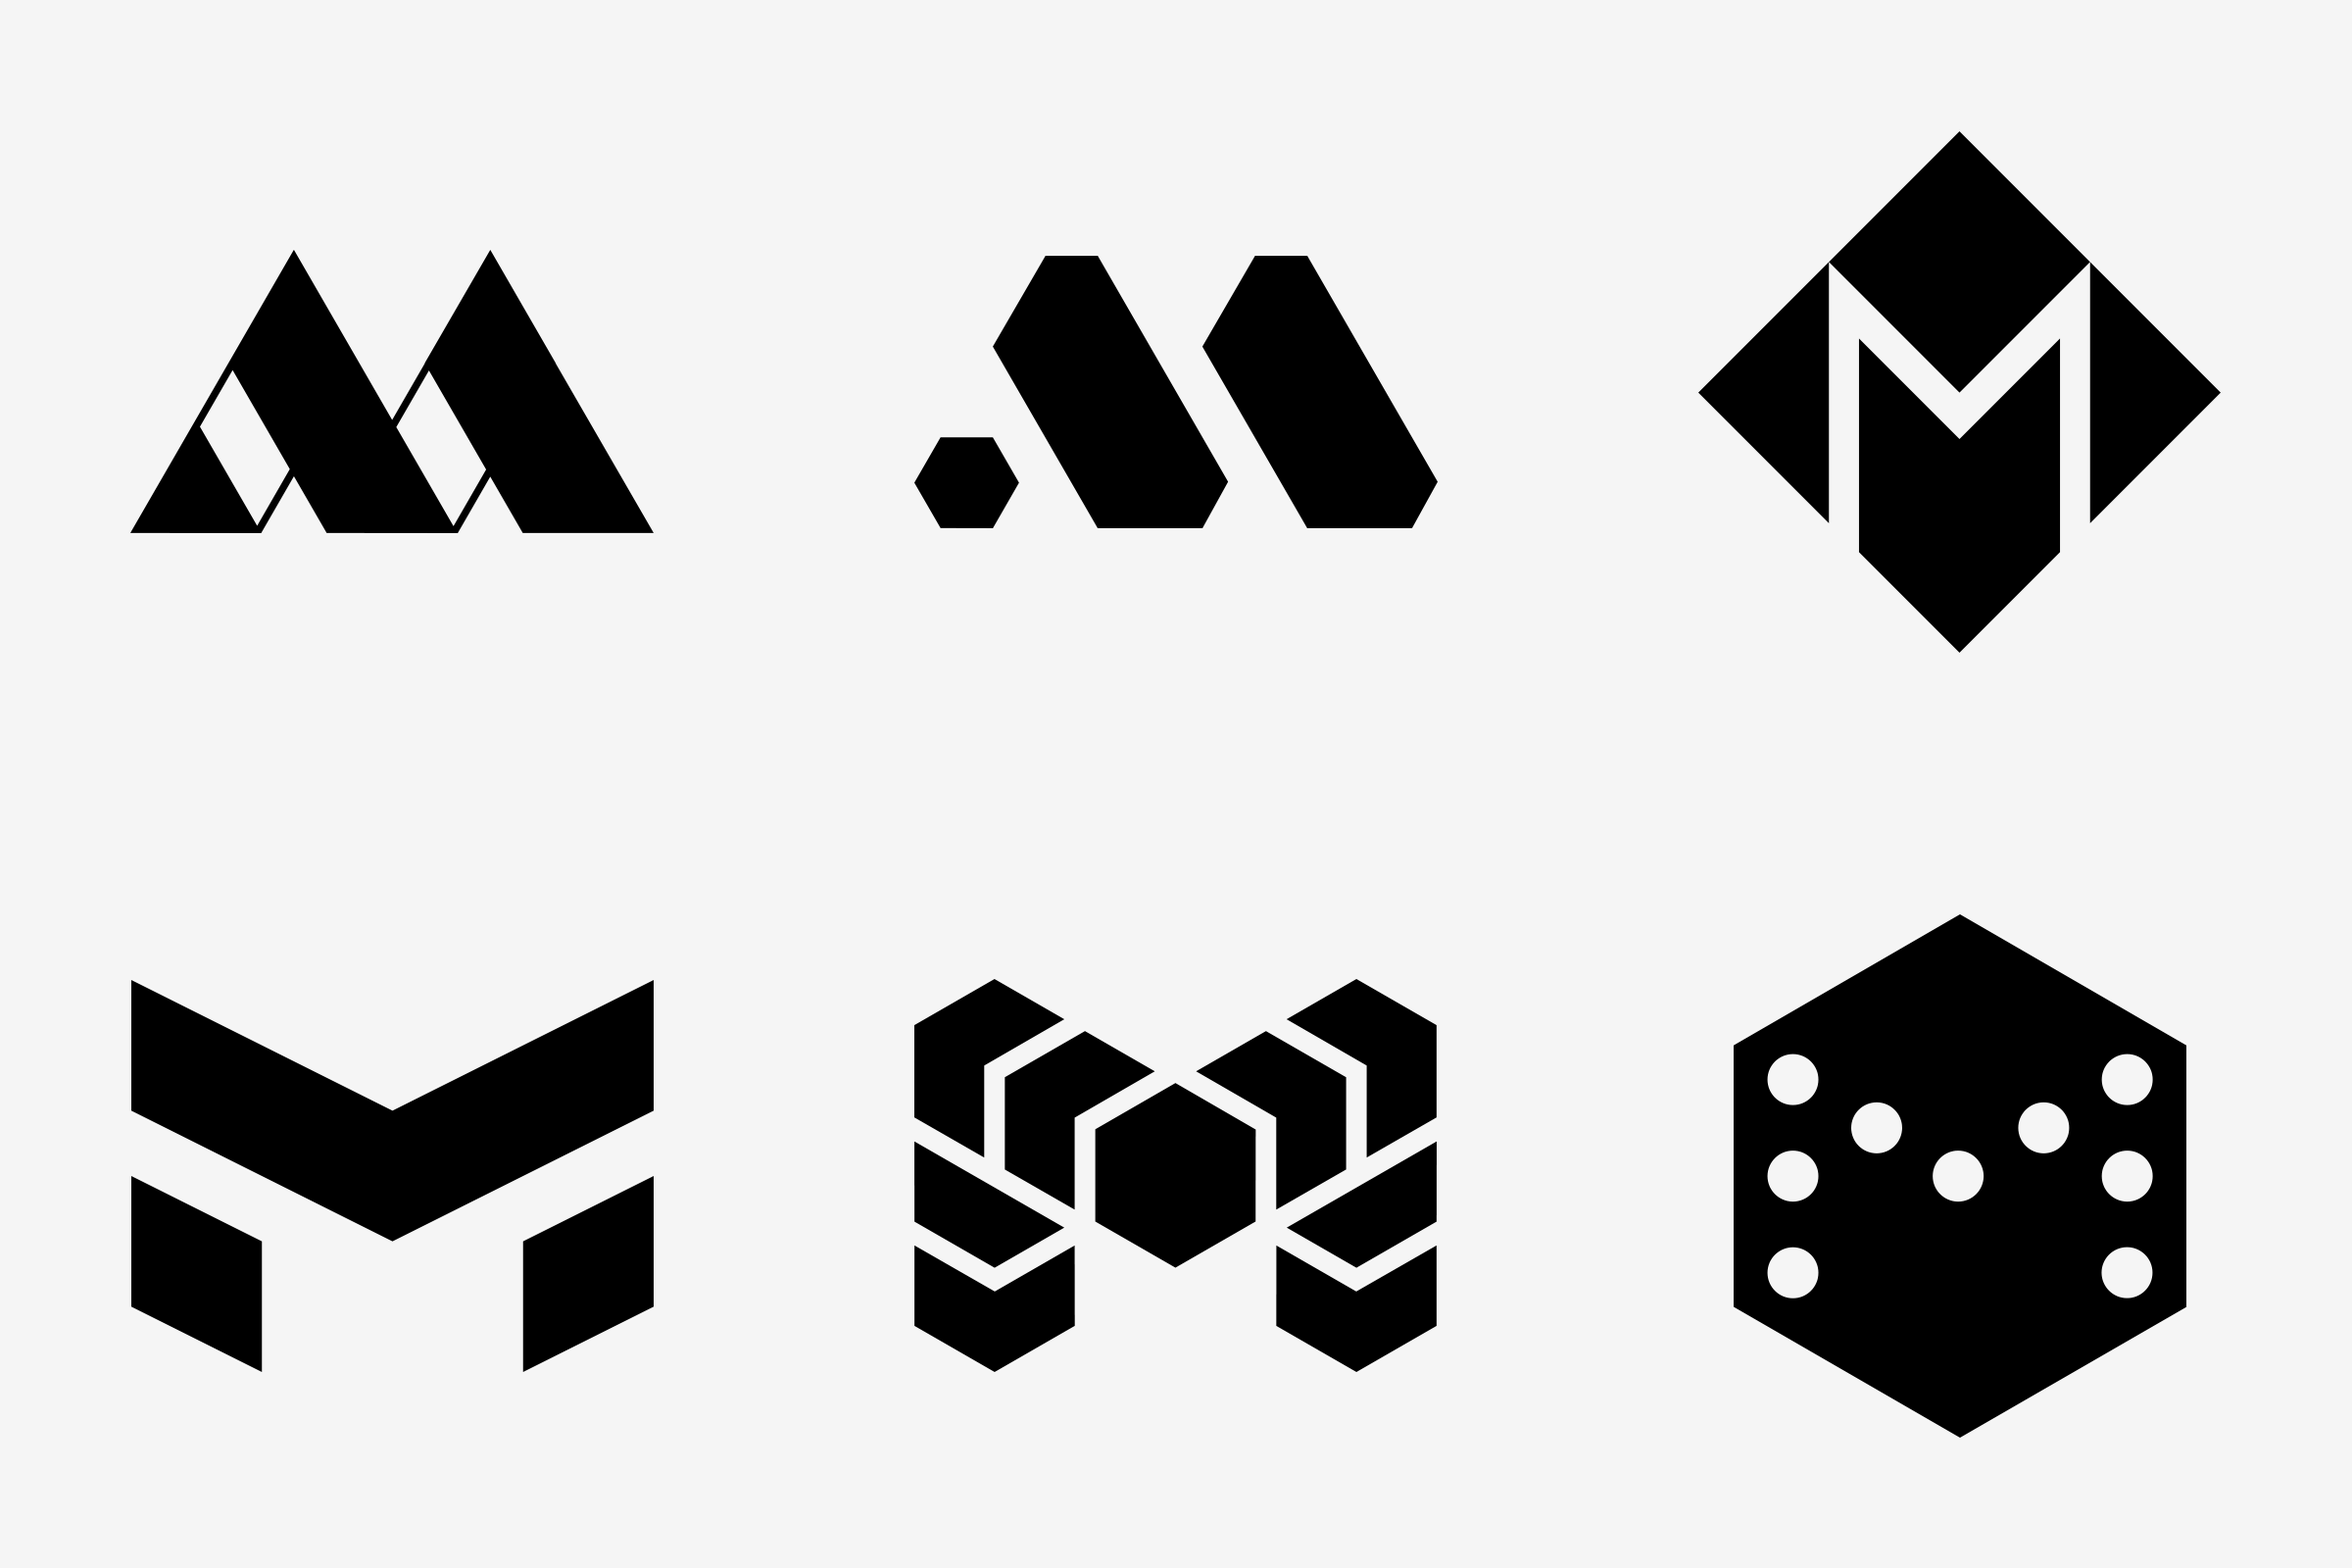
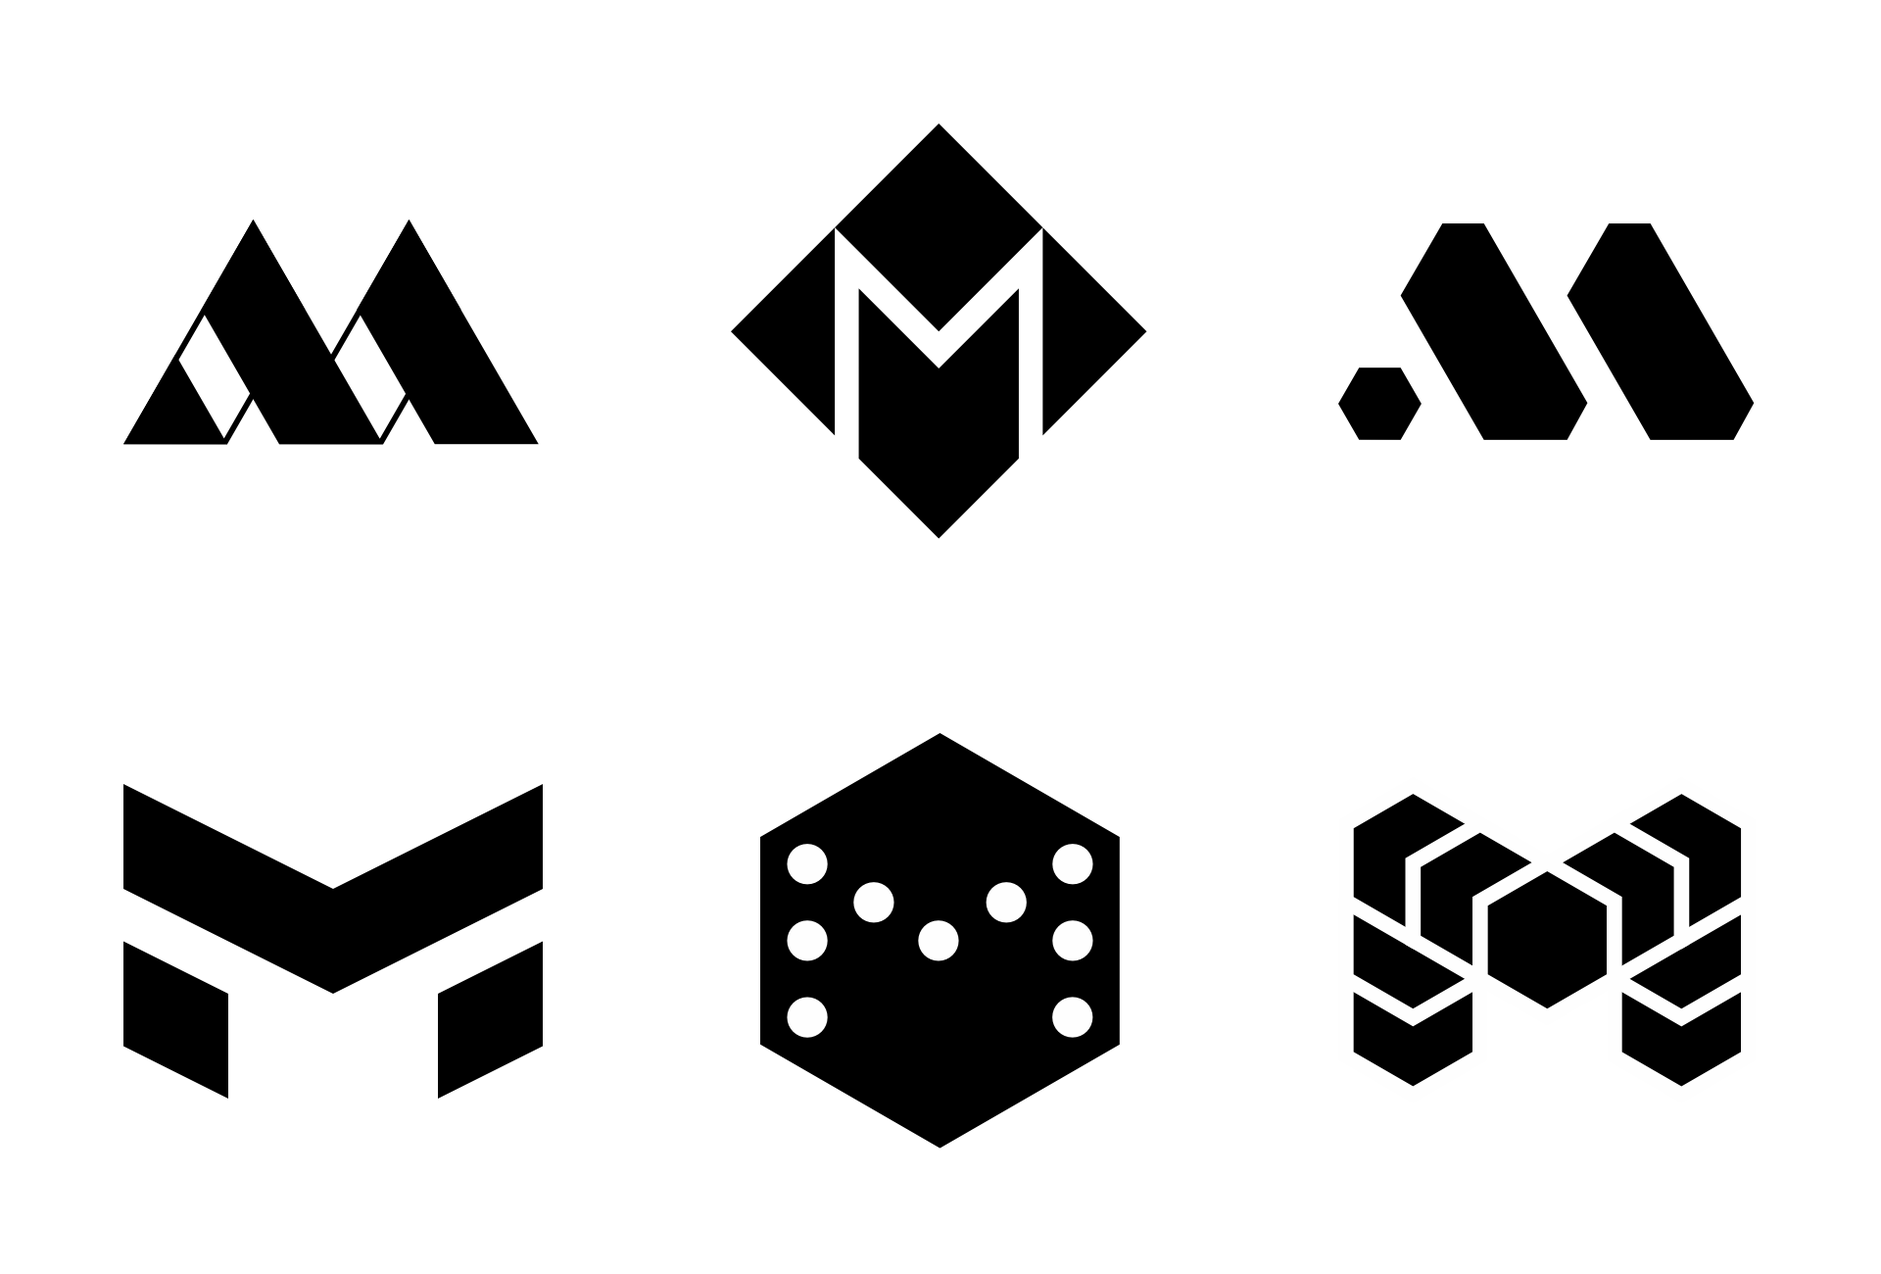
responsive lightbox python plugin
-added filter to adjust urls for responsive lightbox (serve 1x or 2x
based on retina, but always link to 2x for lightbox)
-changed mushi semis images

diff --git a/.build/posts/mushi-labs.html b/.build/posts/mushi-labs.html
@@ -116,6 +116,8 @@ body{font-size:110%}.max-sm{max-width:960px}.svg-icon{fill:currentColor}.dark-gr
 
 <p>I threw out my normal design process, worked all night on a single prototype of a new website in HTML/CSS and then sent him a screenshot of the responsive site I had fully built including animations:</p>
 
+<!-- if responsive, set 2x class on img and link to the 2x image using the responsive filter-->
+
 <figure class="max-sm mx0 py2">
     <a href="/static/images/mushi-labs/web.png" data-lity>
        <img src="/static/images/mushi-labs/web.png"/>
@@ -132,6 +134,8 @@ body{font-size:110%}.max-sm{max-width:960px}.svg-icon{fill:currentColor}.dark-gr
 
 <p>Even though I had a feeling that it wouldn’t work, I tried it anyway. I sketched and sketched for a few days, but I couldn’t make a koi fish that worked both as a large logo and as a small favicon for a website. I talked to Bernard again and discussed the results of my exploration. We decided that it would be good to try something more geometric, what I would have originally tried if I didn’t try the koi fish logo.</p>
 
+<!-- if responsive, set 2x class on img and link to the 2x image using the responsive filter-->
+
 <figure class="max-sm mx0 py2">
     <a href="/static/images/mushi-labs/koi_sketches.png" data-lity>
        <img src="/static/images/mushi-labs/koi_sketches.png"/>
@@ -144,6 +148,8 @@ body{font-size:110%}.max-sm{max-width:960px}.svg-icon{fill:currentColor}.dark-gr
 
 <p>I then quickly sketched different geometric designs with pencil and paper.</p>
 
+<!-- if responsive, set 2x class on img and link to the 2x image using the responsive filter-->
+
 <figure class="max-sm mx0 py2">
     <a href="/static/images/mushi-labs/mushi_sketches.png" data-lity>
        <img src="/static/images/mushi-labs/mushi_sketches.png"/>
@@ -152,9 +158,11 @@ body{font-size:110%}.max-sm{max-width:960px}.svg-icon{fill:currentColor}.dark-gr
 
 <p>I then brought all the designs I liked into Illustrator to start tweaking them and visualizing them on business cards, as favicons, etc. Here are some eventually rejected logos that made it to this stage.</p>
 
-<figure class="max-sm mx0 py2">
-    <a href="/static/images/mushi-labs/semis.png" data-lity>
-       <img src="/static/images/mushi-labs/semis.png"/>
+<!-- if responsive, set 2x class on img and link to the 2x image using the responsive filter-->
+
+<figure class="max-sm mx0 2x">
+    <a href="/static/images/mushi-labs/semis@2x.png" data-lity>
+       <img class="2x" src="/static/images/mushi-labs/semis.png"/>
     </a> 
 </figure>
 

diff --git a/pages/posts/mushi-labs.html b/pages/posts/mushi-labs.html
@@ -52,7 +52,7 @@ I then quickly sketched different geometric designs with pencil and paper.
 
 I then brought all the designs I liked into Illustrator to start tweaking them and visualizing them on business cards, as favicons, etc. Here are some eventually rejected logos that made it to this stage.
 
-{% include "lightbox.html" with link="/static/images/mushi-labs/semis.png" %}
+{% include "lightbox.html" with link="/static/images/mushi-labs/semis.png" responsive=True%}
 
 I narrowed the list to the 3 logos I would be happy to deliver to Mushi Labs. I paired each one with an appropriate typeface and created a mockup image in Photoshop to show each logo on a building sign, on a business card and on the web. I sent them off and waited.
 

diff --git a/templates/lightbox.html b/templates/lightbox.html
@@ -1,5 +1,15 @@
+<!-- if responsive, set 2x class on img and link to the 2x image using the responsive filter-->
+{% if responsive %}
+<figure class="max-sm mx0 2x">
+	<a href="{% filter responsive_image %}{{ link }}{% endfilter %}" data-lity>
+	   <img class="2x" src="{{ link }}"/>
+	</a> 
+</figure>
+{% else %}
 <figure class="max-sm mx0 py2">
 	<a href="{{ link }}" data-lity>
 	   <img src="{{ link }}"/>
 	</a> 
 </figure>
+{% endif %}
+

diff --git a/.build/posts/anuta-documents.html b/.build/posts/anuta-documents.html
@@ -110,8 +110,6 @@ body{font-size:110%}.max-sm{max-width:960px}.svg-icon{fill:currentColor}.dark-gr
 	</section>
 	<section class="clearfix max-sm nn-type mx-auto mt0 md-pt3 px2">
 		
-<p><img class="featured 2x" src="/images/image-full.jpg"/></p>
-
 <p>Displays images in a grid, with individual pages optionally describing the image in detail, or displaying more images. Images have a max-width of 400 pixels by default.</p>
 
 

diff --git a/pages/posts/anuta-documents.html b/pages/posts/anuta-documents.html
@@ -25,7 +25,6 @@ I saw this as an opportunity to create a design system serving two purposes. Fir
 {% block body %}
 {% filter markdown %}
 
-<img class="featured 2x" src="{% static '/images/image-full.jpg' %}"/>
 
 Displays images in a grid, with individual pages optionally describing the image in detail, or displaying more images. Images have a max-width of 400 pixels by default.
 

diff --git a/.build/index.html b/.build/index.html
@@ -109,7 +109,7 @@ body{font-size:110%}.max-sm{max-width:960px}.svg-icon{fill:currentColor}.dark-gr
 								2016
 							</h5>
 							<p class="mt3">
-								Redsigning the popular habit tracker for iOS
+								Redesigning the popular habit tracker for iOS
 							</p>
 							<h5 class="absolute bottom-0 pb3">
 								mobile, interaction, visual, icons

diff --git a/pages/posts/habit-list.html b/pages/posts/habit-list.html
@@ -1,7 +1,7 @@
 title: Redesigning Habit list
 thumbnail: static/images/habit-list/thumb.png
 
-description: Redsigning the popular habit tracker for iOS
+description: Redesigning the popular habit tracker for iOS
 tags: mobile, interaction, visual, icons
 date: 21-05-2016
 client: private

diff --git a/plugins/templates.py b/plugins/templates.py
@@ -1,0 +1,13 @@
+from cactus.template_tags import register
+
+"""
+Used in lightbox.html template
+Will append '@2x' to a path to a png or jpg image
+
+"""
+
+@register.filter(is_safe=True)
+def responsive_image(value):
+	temp = value.replace(".png", "@2x.png")
+	temp = temp.replace(".jpg", "@2x.jpg")
+	return temp
